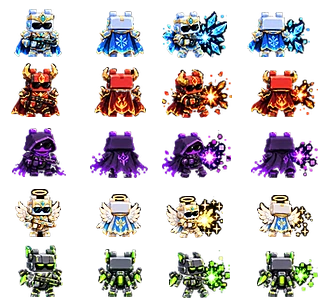
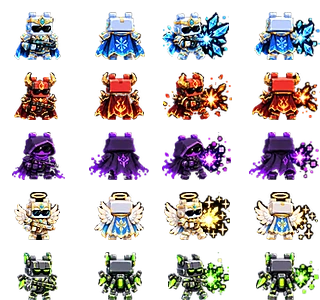
aa

diff --git a/test/e2e-melee.test.js b/test/e2e-melee.test.js
@@ -1,0 +1,67 @@
+// **실제 서버로 칼전 한 판** — 스킨 입은 쪽과 기본 쪽을 같은 거리에 세우고 붙인다.
+//
+// [stated] "스킨 적용해서 칼전을 했는데 기본 캐릭터보다 사거리가 짧게 느껴져 계속 얻어맞았다".
+// 판정은 스킨을 안 본다(시뮬에 스킨이 안 들어간다). 실제로 그런지 **붙여서** 확인한다 —
+// 스킨 쪽과 기본 쪽이 **같은 프레임에 맞고 체력이 같아야** 한다.
+// (그림이 어긋나 있던 것은 시트를 기본 기준으로 다시 맞춰 고쳤다)
+import { spawn } from 'child_process';
+import fs from 'fs';
+import { createRequire } from 'module';
+import { assert } from './harness.js';
+import { fileURLToPath } from 'url';
+process.chdir(fileURLToPath(new URL('..', import.meta.url)));
+
+const skip = why => { console.log('e2e-melee.test.js 건너뜀 — ' + why); process.exit(0); };
+let puppeteer;
+try { puppeteer = createRequire(import.meta.url)('puppeteer-core'); } catch { skip('puppeteer-core 없음'); }
+const CHROME = [process.env.PUPPETEER_EXECUTABLE_PATH,
+  '/home/claude/.cache/puppeteer/chrome/linux-131.0.6778.204/chrome-linux64/chrome']
+  .find(p => p && fs.existsSync(p));
+if (!CHROME) skip('크롬 없음');
+
+const SP = 8901, VP = 5401;
+const wait = ms => new Promise(r => setTimeout(r, ms));
+const ps = [];
+const kill = () => ps.forEach(p => { try { p.kill('SIGKILL'); } catch { /* 무시 */ } });
+process.on('exit', kill);
+ps.push(spawn(process.execPath, ['server/index.js'], { env: { ...process.env, PORT: String(SP), E2E_DEBUG: '1' }, stdio: 'ignore' }));
+ps.push(spawn(process.execPath, ['node_modules/vite/bin/vite.js', '--port', String(VP), '--host', '127.0.0.1', '--strictPort'],
+  { env: { ...process.env, VITE_SERVER_URL: `ws://127.0.0.1:${SP}` }, stdio: 'ignore' }));
+let ok = false;
+for (let i = 0; i < 60 && !ok; i++){
+  try { ok = (await fetch(`http://127.0.0.1:${VP}/test/e2e/melee-probe.html`)).ok; } catch { /* 아직 */ }
+  if (!ok) await wait(500);
+}
+if (!ok){ kill(); skip('개발 서버가 안 뜸'); }
+
+const browser = await puppeteer.launch({ executablePath: CHROME, args: ['--no-sandbox'] });
+try {
+  const dev = async (h, sk, gap) => {
+    const c = await browser.createBrowserContext(); const p = await c.newPage();
+    await p.goto(`http://127.0.0.1:${VP}/test/e2e/melee-probe.html?host=${h}&skin=${sk}&gap=${gap}`);
+    await p.waitForFunction('window.READY', { timeout: 20000 }); return p;
+  };
+  const gap = 16;
+  const A = await dev(1, 2, gap), B = await dev(0, 0, gap);   // A 만 스킨을 입는다
+  await A.evaluate(`start('create','')`); await A.waitForFunction('window.E2E.code', { timeout: 20000 });
+  const code = await A.evaluate('window.E2E.code');
+  await B.evaluate(`start('join','${code}')`);
+  await B.waitForFunction('window.E2E.entered==="joined"', { timeout: 20000 });
+  await wait(400); await A.evaluate('startRoom()');
+  await Promise.all([A, B].map(p => p.waitForFunction('window.E2E.rep', { timeout: 90000 })));
+  const a = await A.evaluate('window.E2E.rep'), b = await B.evaluate('window.E2E.rep');
+
+  console.log(`스킨 쪽과 기본 쪽을 ${gap}px 떨어뜨려 붙였을 때`);
+  assert(a.firstHitA > 0 && a.firstHitB > 0, `  둘 다 칼이 닿았다 (${a.firstHitA} / ${a.firstHitB}프레임)`);
+  assert(a.firstHitA === a.firstHitB, `  같은 프레임에 맞기 시작한다 (${a.firstHitA} / ${a.firstHitB})`);
+  assert(a.hpNowA === a.hpNowB, `  남은 체력이 같다 — 스킨 쪽이 불리하지 않다 (${a.hpNowA} / ${a.hpNowB})`);
+  // 두 화면은 **각자 자기 프레임 수만큼** 재고 멈추므로 시점이 조금 다르다 —
+  // 그래서 화면끼리 체력을 맞대지 않고, **각 화면 안에서 스킨 쪽과 기본 쪽이 같은지**를 본다
+  console.log('상대 화면에서 봐도 마찬가지');
+  assert(b.firstHitA === b.firstHitB, `  같은 프레임에 맞기 시작한다 (${b.firstHitA} / ${b.firstHitB})`);
+  assert(b.hpNowA === b.hpNowB, `  남은 체력이 같다 (${b.hpNowA} / ${b.hpNowB})`);
+  console.log('e2e-melee.test.js 통과');
+} finally {
+  await browser.close().catch(() => {});
+  kill();
+}

diff --git a/test/roundscore.test.js b/test/roundscore.test.js
@@ -1,0 +1,70 @@
+// **같은 방에서 두 판을 하면 점수가 이어지는가** — 실제 서버에 소켓 두 개로 붙어서 본다.
+//
+// [stated] "총격전·칼전 점수가 자꾸 900점으로 돌아간다 (축구는 유지됨)".
+// 원인: 서버가 판 시작 전 점수를 **방당 한 번만** 읽고 `primed` 를 영영 안 껐다 →
+// 같은 방의 두 번째 판부터 **첫 판 시작 전 점수**로 계산해 덮어썼다.
+// (구름 대신 `E2E_FAKE_STORE` 가짜 저장소를 쓴다 — 여기서는 파이어스토어에 못 나간다)
+import { spawn } from 'child_process';
+import { assert } from './harness.js';
+import { fileURLToPath } from 'url';
+process.chdir(fileURLToPath(new URL('..', import.meta.url)));
+let WebSocket;
+try { WebSocket = (await import('ws')).default; } catch { console.log('roundscore.test.js 건너뜀 — ws 없음'); process.exit(0); }
+
+const SP = 8881, wait = ms => new Promise(r => setTimeout(r, ms));
+const srv = spawn(process.execPath, ['server/index.js'],
+  { env: { ...process.env, PORT: String(SP), E2E_DEBUG: '1', E2E_FAKE_STORE: '1' }, stdio: 'ignore' });
+process.on('exit', () => { try { srv.kill('SIGKILL'); } catch { /* 무시 */ } });
+let up = false;
+for (let i = 0; i < 40 && !up; i++){
+  try { up = (await fetch(`http://127.0.0.1:${SP}/health`)).ok; } catch { /* 아직 */ }
+  if (!up) await wait(300);
+}
+if (!up){ try { srv.kill('SIGKILL'); } catch { /* 무시 */ } console.log('roundscore.test.js 건너뜀 — 서버가 안 뜸'); process.exit(0); }
+
+const open = q => new Promise(res => {
+  const w = new WebSocket(`ws://127.0.0.1:${SP}/?` + q); w.last = {};
+  w.on('message', d => { const m = JSON.parse(d); w.last[m.t] = m;
+    if (m.t === 'room') w.code = m.code;
+    if (m.t === 'f' || m.t === 's') w.tick = Math.max(w.tick | 0, m.tick | 0); });
+  w.on('open', () => res(w));
+});
+const scoreOf = async (w, uid) => {
+  w.last.__score = null; w.send(JSON.stringify({ t: '__score', uid }));
+  for (let i = 0; i < 20; i++){ await wait(100); if (w.last.__score) return w.last.__score.v; }
+  return null;
+};
+try {
+  const A = await open('sid=SA&uid=userA&nick=A&mode=create&n=2');
+  await wait(400);
+  const B = await open(`sid=SB&uid=userB&nick=B&mode=join&code=${A.code}`);
+  await wait(600);
+  const got = [];
+  for (let round = 1; round <= 2; round++){
+    A.send(JSON.stringify({ t: 'start' })); await wait(400);
+    for (const w of [A, B]) w.send(JSON.stringify({ t: 'seen' }));
+    await wait(200);
+    // 입력 메시지 이름은 **`in`** 이고 틱은 **서버 시계보다 앞**이어야 한다 (지난 틱은 버려진다)
+    for (let k = 0; k < 60; k++){
+      for (const w of [A, B]) for (let d = 3; d <= 8; d++)
+        w.send(JSON.stringify({ t: 'in', tick: (w.tick | 0) + d, ready: 1, go: 1 }));
+      await wait(100);
+      const j = await (await fetch(`http://127.0.0.1:${SP}/health`)).json();
+      if (j.rooms && j.rooms[0] && j.rooms[0].phase === 2) break;   // 전투 시작
+    }
+    const j = await (await fetch(`http://127.0.0.1:${SP}/health`)).json();
+    assert(j.rooms && j.rooms[0] && j.rooms[0].phase === 2, `  ${round}판: 전투까지 들어갔다`);
+    A.send(JSON.stringify({ t: '__end' })); await wait(900);
+    got.push({ a: await scoreOf(A, 'userA'), b: await scoreOf(A, 'userB') });
+    A.send(JSON.stringify({ t: 'toroom' })); B.send(JSON.stringify({ t: 'toroom' })); await wait(600);
+  }
+  console.log('두 번째 판이 첫 판 결과에서 이어진다');
+  assert(got[0].a && got[1].a, '  두 판 모두 점수가 쓰였다');
+  assert(got[1].a.gun !== got[0].a.gun,
+    `  이긴 쪽 점수가 또 갱신된다 (1판 ${got[0].a.gun} → 2판 ${got[1].a.gun})`);
+  assert(got[1].b.gun !== got[0].b.gun,
+    `  진 쪽도 이어서 깎인다 (1판 ${got[0].b.gun} → 2판 ${got[1].b.gun})`);
+  assert(got[1].a.sgun === 2, `  연승이 쌓인다 (${got[1].a.sgun})`);
+  A.close(); B.close();
+  console.log('roundscore.test.js 통과');
+} finally { try { srv.kill('SIGKILL'); } catch { /* 무시 */ } }

diff --git a/test/e2e/melee-probe.html b/test/e2e/melee-probe.html
@@ -1,0 +1,70 @@
+<!doctype html>
+<html><head><meta charset="UTF-8"><title>e2e melee probe</title></head>
+<body>
+<!-- 실제 서버로 칼전 한 판. **스킨 입은 쪽과 기본 쪽을 같은 거리에 세우고** 누가 언제 맞는지 잰다.
+     화면 쪽도 같이 잰다: 내 캐릭터가 그려지는 자리(머리·발끝·좌우)를 픽셀로 -->
+<script type="module">
+import { connectAndWait, startRoom, onGo, getConnection } from '/src/net/connection.js';
+import { Client } from '/src/game/net.js';
+import { SELF, setArena, FP, PH_PLAY } from '/src/game/config.js';
+import { createRenderer } from '/src/game/render.js';
+import { setTry } from '/src/state/tryskin.js';
+import { warmUp, keysFor } from '/src/game/assets.js';
+const q = new URLSearchParams(location.search);
+const host = q.get('host') === '1';
+const skin = +(q.get('skin') || 0);
+if (skin) setTry('melee', skin);                    // 내 화면에서만 입는다 (판정과 무관)
+const E = window.E2E = { entered: null, code: null, rep: null, err: null };
+onGo(() => setTimeout(runGame, 50));
+window.start = (mode, code) => { connectAndWait({ mode, code, n: 2, melee: true,
+  onCode: c => { E.code = c; E.entered = 'code'; }, onJoined: () => { E.entered = 'joined'; } })
+  .catch(e => { E.err = (e && e.message) || 'err'; }); };
+window.startRoom = startRoom;
+async function runGame(){
+  await warmUp(keysFor({ melee: true, n: 2 }));
+  await new Promise(r => setTimeout(r, 600));
+  const conn = getConnection(), tr = conn.transport;
+  SELF.slot = conn.slot; SELF.n = 2; SELF.melee = true;
+  setArena(2, true, false, false);
+  const cv = document.createElement('canvas'); cv.width = 540; cv.height = 1200;
+  cv.style.cssText = 'position:fixed;left:0;top:0;width:393px';
+  document.body.appendChild(cv);
+  const view = createRenderer(cv); view.resize(393, 760);
+  const client = new Client(tr, [conn.slot]);
+  const me = conn.slot, A = host ? me : 1 - me, B = 1 - A;
+  let f = 0, nextRd = 0, placed = -1, last = performance.now();
+  const log = { firstHitA: -1, firstHitB: -1, hpA: 100, hpB: 100, gap: q.get('gap') };
+  function loop(now){
+    const dt = Math.min(0.1, (now - last) / 1000); last = now;
+    if (client.s.phase !== PH_PLAY && now >= nextRd){ client.setReady(me); client.setGo(me); nextRd = now + 250; }
+    const s = client.s;
+    if (s.phase === PH_PLAY){
+      if (placed < 0){
+        if (host){
+          // A 는 왼쪽에서 오른쪽(face 3), B 는 오른쪽에서 왼쪽(face 2). 간격은 gap(px)
+          const g = +q.get('gap'), cx = 88, cy = 150;
+          tr.clientSend({ t: '__place', at: [{ slot: A, x: cx - g / 2, y: cy, face: 3 },
+                                             { slot: B, x: cx + g / 2, y: cy, face: 2 }] });
+        }
+        placed = f;
+      }
+      const k = f - placed;
+      if (k > 20){
+        if (log.firstHitA < 0 && s.p[A].hp < 100){ log.firstHitA = k; log.hpA = s.p[A].hp; }
+        if (log.firstHitB < 0 && s.p[B].hp < 100){ log.firstHitB = k; log.hpB = s.p[B].hp; }
+      }
+      if (k >= 240 && !E.rep){
+        E.rep = { me, slotA: A, ...log, hpNowA: s.p[A].hp, hpNowB: s.p[B].hp, skin, tick: s.tick };
+      }
+    }
+    client.ping(now); client.sendInputs(now); client.applyFrames(); client.predict();
+    client.updateRender(client.alpha(now), dt);
+    try { view.draw(client.pred || client.s, '', 0, client, { on: 0, nx: 0, ny: 0 }, null, 0, true, {}); }
+    catch (e){ if (!E.drawErr) E.drawErr = String(e).slice(0, 120); }   // 그림 한 장이 없어도 계속 잰다
+    f++;
+    if (!E.rep) requestAnimationFrame(loop);
+  }
+  requestAnimationFrame(loop);
+}
+window.READY = true;
+</script></body></html>

diff --git a/server/index.js b/server/index.js
@@ -54,6 +54,10 @@ class Room {
     // 판 시작 전 점수·연승. **매칭 때 한 번만 읽는다** — 판마다 읽으면 할당량이 닳는다
     this.preScore = Array.from({ length: n }, () => ({ score: 1000, streak: 0 }));
     this.settled = false;        // 점수를 이미 썼는가 (한 판에 한 번만)
+    // [stated] **총·칼 점수가 자꾸 같은 값(900)으로 돌아갔다.** 판 시작 전 점수를 **방당 한 번만**
+    // 읽고 `primed` 를 영영 안 껐다 → 같은 방의 두 번째 판부터 **첫 판 시작 전 점수**로 계산해
+    // 덮어썼다. 새 판이 차려질 때마다 다시 읽는다
+    this.primed = false;
     this.emptyAt = 0;
     // [stated] **방장** — 판이 끝나도 방이 유지되고, 방장이 다시 시작한다.
     // 나가면 남아 있는 사람에게 자동으로 넘어간다
@@ -393,7 +397,8 @@ class Room {
     // 다시 시작할 때도 **전원이 화면에 들어올 때까지** 준비 시간을 세지 않는다
     for (const x of this.seats) if (x.ws) x.ws.seen = false;
     st.hold = true;
-    this.settled = false;                 // 다음 판 점수를 다시 쓸 수 있게
+    this.settled = false;
+    this.primed = false;                  // **판 시작 전 점수를 다시 읽는다**
     // **`charged` 를 비우면 안 된다** — 빠른 매칭에서 다시 하기로 무한히 돌 수 있다.
     // 친구방은 애초에 안 깎으므로 그대로 두면 된다
     this.send({ t: 's', tick: st.tick, st: JSON.parse(JSON.stringify(st)) });
@@ -412,6 +417,7 @@ class Room {
     for (const x of this.seats) if (x.ws) x.ws.seen = false;
     st.hold = true;
     this.settled = false;
+    this.primed = false;                  // 새 판이면 점수를 다시 읽는다
     this.send({ t: 's', tick: st.tick, st: JSON.parse(JSON.stringify(st)) });
     this.sendLobby();
     this.sendRoom();
@@ -463,6 +469,7 @@ class Room {
     st.nick = fit(keepNick, ''); st.color = fit(keepColor, 0); st.off = fit(keepOff, false);
     st.rdy = readyLimit(this.melee, this.soccer);
     this.settled = false;
+    this.primed = false;                  // 종목이 바뀌면 점수를 다시 읽는다
     this.send({ t: 'mode', melee: this.melee, ffa: this.ffa, soccer: this.soccer, n: this.n });
     this.sendRoom();
     this.send({ t: 's', tick: st.tick, st: JSON.parse(JSON.stringify(st)) });
@@ -1153,6 +1160,11 @@ wss.on('connection', (ws, req) => {
       const st = ws.room.server.s;
       if (st.phase === PH_PLAY || st.phase === PH_READY){ st.over = true; st.phase = PH_OVER; st.winner = 1; }
       ws.room.send({ t: 's', tick: st.tick, st: JSON.parse(JSON.stringify(st)) });
+      return;
+    }
+    // **검사 전용** — 저장된 점수를 돌려준다. `E2E_DEBUG=1` 일 때만
+    if (m.t === '__score' && process.env.E2E_DEBUG === '1'){
+      ws.send(JSON.stringify({ t: '__score', uid: m.uid, v: store.fakeGet(m.uid) }));
       return;
     }
     // **검사 전용** — 선수를 정한 자리에 세운다(공 주인까지). `E2E_DEBUG=1` 일 때만

diff --git a/server/store.js b/server/store.js
@@ -26,7 +26,10 @@ try {
 // stderr로 내보내면 서버 오류를 감시하는 테스트가 실패한다
 if (!db) console.log('[store] 꺼짐 —', why, '· 점수는 저장되지 않는다');
 
-export const isOn = () => !!db;
+// **검사 전용 가짜 저장소** — `E2E_FAKE_STORE=1` 일 때만. 파이어스토어 없이 점수 흐름을 확인한다
+const FAKE = process.env.E2E_FAKE_STORE === '1' ? new Map() : null;
+export const fakeGet = uid => (FAKE ? FAKE.get(uid) || null : null);
+export const isOn = () => !!db || !!FAKE;
 
 /** 로그인 증표 확인. **uid 를 그냥 믿으면 남의 이름을 바꿔버릴 수 있다** —
  *  이름 바꾸기처럼 쓰기가 일어나는 곳은 반드시 이걸로 본인인지 확인한다 */
@@ -103,6 +106,16 @@ export function warmup(){
 /** 여러 사람의 기록을 한 번에 읽는다. 없으면 기본값.
  *  **매칭 때 한 번만** 부른다 — 판마다 읽으면 할당량이 금방 닳는다 */
 export async function readPlayers(uids){
+  if (FAKE){
+    const out = new Map();
+    for (const u of uids){
+      const d = FAKE.get(u) || {};
+      out.set(u, { nick: d.nick || '',
+        score: { gun: d.gun ?? 1000, melee: d.melee ?? 1000, soccer: d.soccer ?? 0 },
+        streak: { gun: d.sgun | 0, melee: d.smelee | 0, soccer: d.ssoccer | 0 } });
+    }
+    return out;
+  }
   const out = new Map();
   if (!db || !uids.length) return out;
   try {
@@ -129,6 +142,17 @@ export async function readPlayers(uids){
 
 /** 판이 끝나면 점수를 쓴다. **여러 명을 한 번에** (묶음 쓰기 1회) */
 export async function writeResults(rows){
+  if (FAKE){
+    for (const r of rows){
+      const kind = r.kind === 'melee' ? 'melee' : (r.kind === 'soccer' ? 'soccer' : 'gun');
+      const d = FAKE.get(r.uid) || {};
+      d[kind] = Math.max(0, r.score | 0);
+      d['s' + kind] = Math.max(0, r.streak | 0);
+      d.n = (d.n | 0) + 1;
+      FAKE.set(r.uid, d);
+    }
+    return true;
+  }
   if (!db || !rows.length) return false;
   try {
     const batch = db.batch();

diff --git a/src/ui/VsIntro.jsx b/src/ui/VsIntro.jsx
@@ -38,12 +38,14 @@ const SHOW_MS = 3000;
 // 배율을 `92 / 칸높이` 로 잡아 스킨이 작아졌고, 높이를 92 로 고정해 칸이 큰 스킨이 넘쳤다.
 // 시트에서 직접 잰 값을 넣는다 — `bh` 몸통, `ax`~`aw` 가로 창, `by` 캐릭터 아래끝(칸 위에서)
 const SKIN_SHEET = {
+  // [stated] **스킨 시트를 기본과 같은 자리에 다시 맞췄다**(사거리가 짧게 느껴지던 원인) →
+  // 잘라 쓰는 자리도 새 시트 기준으로. 몸통 발끝 y 와 몸통 높이는 실제로 재서 넣은 값이다
   soccer: { src: 'assets/soccer-skins.webp', cw: 80,  ch: 52,  cols: 13, rows: 5, still: 0,
-            ax: 21, aw: 38,  by: 52,  bh: 48,  vh: 92 },
+            ax: 23, aw: 33,  by: 51,  bh: 45,  vh: 92 },
   melee:  { src: 'assets/melee-skins.webp',  cw: 270, ch: 131, cols: 8,  rows: 5, still: 0,
-            ax: 65, aw: 130, by: 114, bh: 94,  vh: 92 },
+            ax: 66, aw: 130, by: 129, bh: 92,  vh: 92 },
   gun:    { src: 'assets/gun-skins.webp',    cw: 80,  ch: 60,  cols: 4,  rows: 5, still: 0,
-            ax: 8,  aw: 61,  by: 57,  bh: 50,  vh: 100 }
+            ax: 9,  aw: 61,  by: 59,  bh: 48,  vh: 100 }
 };
 // 기본 캐릭터가 화면에서 차지하던 몸통 크기 (92 x 몸통 / 칸높이)
 const TGT = { gun: 92, melee: 80.8, soccer: 79.6 };

diff --git a/test/e2e/contact-probe.html b/test/e2e/contact-probe.html
@@ -40,11 +40,14 @@ function runGame(){
       if (me === A && k === 100) client.tackle(me);
       if (k === 40){ log.pushB0 = s.p[B].y / FP; }
       if (k === 99){ log.pushB1 = s.p[B].y / FP; }
-      if (k >= 40 && k < 160){
+      // **미는 구간(40~99)에서만** 통과 여부를 잰다 — 태클은 미끄러져 지나가는 동작이라 따로 본다
+      if (k >= 40 && k < 100){
         const g = (s.p[A].y - s.p[B].y) / FP;          // A 가 B 보다 아래 있어야(+) 통과 안 한 것
         log.minGap = Math.min(log.minGap, g);
         if (g < 0) log.passed = true;
-        if (k >= 100 && !log.tackled && ((s.p[B].stun | 0) > 0 || s.ballOwner !== B)){ log.tackled = true; log.tkFrame = k; }
+      }
+      if (k >= 100 && k < 160 && !log.tackled && ((s.p[B].stun | 0) > 0 || s.ballOwner !== B)){
+        log.tackled = true; log.tkFrame = k;
       }
       if (k >= 170 && !E.rep) E.rep = { me, role: me === A ? '미는 쪽' : '공 가진 쪽', ...log,
         pushed: log.pushB0 != null && log.pushB1 != null ? +(log.pushB0 - log.pushB1).toFixed(1) : null };

diff --git a/test/soccerpush.test.js b/test/soccerpush.test.js
@@ -97,6 +97,18 @@ for (const mv of [false, true]) for (const d of ['up', 'down', 'left', 'right'])
   assert(hit, `  ${d} 에서 태클 · 상대 ${mv ? '걸어감' : '가만히'} → 걸림`);
 }
 
+// [stated] **태클로 넘어진 상대는 그 자리에서 안 밀린다**
+console.log('넘어진 상대는 안 밀린다 (그리고 통과도 안 된다)');
+{
+  const s = field();
+  put(s.p[1], 88, 180); s.p[1].stun = 60;
+  put(s.p[0], 88, 200);
+  const y1 = s.p[1].y;
+  run(s, 60, () => [{ ...NOIN, dy: -sp }, { ...NOIN }]);
+  assert(s.p[1].y === y1, `  제자리에 있다 (${((y1 - s.p[1].y) / FP).toFixed(1)}px 밀림)`);
+  assert(s.p[0].y > s.p[1].y, '  넘어진 사람을 통과하지 않는다');
+}
+
 console.log('결정론 — 같은 입력이면 같은 결과');
 {
   const go = () => { const s = field(4);

diff --git a/src/game/sim.js b/src/game/sim.js
@@ -556,6 +556,12 @@ function pushOthers(s, i, ox, oy){
     const o = s.p[j];
     if (o.hp <= 0 || (s.off && s.off[j])) continue;
     if ((o.tkl | 0) > 0) continue;
+    // [stated] **태클로 넘어진 사람은 그 자리에서 안 밀린다.** 대신 **벽처럼 막는다** —
+    // 이미 겹쳐 있었으면(태클 직후) 빠져나갈 수 있게 막지 않는다
+    if ((o.stun | 0) > 0){
+      if (!overlap(ox, oy, PWf, PHf, o.x, o.y, PWf, PHf)){ p.x = ox; p.y = oy; }
+      continue;
+    }
     if (!overlap(p.x, p.y, PWf, PHf, o.x, o.y, PWf, PHf)) continue;
     const mdx = p.x - ox, mdy = p.y - oy;
     if (Math.abs(mdx) >= Math.abs(mdy)){

diff --git a/src/game/config.js b/src/game/config.js
@@ -465,7 +465,7 @@ export const BARE = { on: false };
 // 스틱을 어느 쪽에 둘지 (왼손잡이 설정)
 export const HAND = { left: false };
 
-export const PROTO_VER = 74;   // 축구 밀기 · 태클 중엔 밀기 끔
+export const PROTO_VER = 75;   // 축구 밀기 · 태클 중엔 끔 · 넘어지면 안 밀림
 // 넷코드 계기판(소켓·프레임·RTT·보냄 등)을 배치 대기 화면에 표시할지.
 // 평소엔 꺼두고, 온라인이 이상할 때만 켜서 원인을 본다
 export const SHOW_NETINFO = false;
